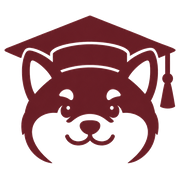
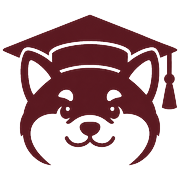
Add files via upload

diff --git a/index.html b/index.html
@@ -12,10 +12,10 @@
 <meta property="og:url" content="https://masahirosuzuki.com/">
 <meta property="og:image" content="https://masahirosuzuki.com/media/images/masahiro-suzuki.jpg">
 <meta name="twitter:card" content="summary">
-<link rel="icon" type="image/png" sizes="32x32" href="/media/images/favicon-32.png">
-<link rel="icon" type="image/png" sizes="16x16" href="/media/images/favicon-16.png">
-<link rel="shortcut icon" href="/favicon.ico">
-<link rel="apple-touch-icon" sizes="180x180" href="/apple-touch-icon.png">
+<link rel="icon" type="image/png" sizes="32x32" href="/media/images/favicon-dark-32.png?v=6">
+<link rel="icon" type="image/png" sizes="16x16" href="/media/images/favicon-dark-16.png?v=6">
+<link rel="shortcut icon" href="/favicon.ico?v=6">
+<link rel="apple-touch-icon" sizes="180x180" href="/apple-touch-icon.png?v=6">
 <style>
 :root{--text:#20262d;--muted:#68737d;--line:#e5e8eb;--link:#225f7c;--max:980px}
 *{box-sizing:border-box}html{scroll-behavior:smooth}
@@ -31,8 +31,8 @@ nav{display:flex;align-items:center;justify-content:space-between;gap:24px;flex-
 .figure-link{display:inline-block;cursor:zoom-in}.figure-link:focus-visible{outline:2px solid var(--text);outline-offset:4px;border-radius:4px}.figure-dialog{width:min(94vw,1400px);max-width:none;max-height:94vh;padding:0;border:0;border-radius:10px;background:#fff;box-shadow:0 20px 70px rgba(0,0,0,.28);overflow:visible}.figure-dialog::backdrop{background:rgba(0,0,0,.72)}.figure-dialog img{display:block;max-width:94vw;max-height:90vh;width:auto;height:auto;margin:auto;border-radius:8px}.figure-dialog-close{position:absolute;right:-12px;top:-12px;width:36px;height:36px;border:0;border-radius:50%;background:var(--text);color:#fff;font:inherit;font-size:22px;line-height:1;cursor:pointer;box-shadow:0 2px 8px rgba(0,0,0,.2)}
 .timeline{display:grid;gap:25px}.record{display:grid;grid-template-columns:110px 1fr;gap:18px;align-items:flex-start}.record-main{display:flex;flex-direction:column;gap:4px}.period{color:var(--muted);font-variant-numeric:tabular-nums;font-size:1.05rem}.record-title{font-weight:650;font-size:1.06rem;letter-spacing:-.015em}.record-meta{color:var(--muted);font-size:1.02rem}.record-details{color:var(--muted);font-size:.94rem;margin-top:3px;max-width:720px}
 .award{display:grid;grid-template-columns:58px 1fr;gap:16px;margin:8px 0}.year{color:var(--muted)}.award a{color:var(--text);text-decoration:underline;text-decoration-thickness:1.5px;text-underline-offset:.12em}.contact{display:flex;gap:18px;flex-wrap:wrap}footer{border-top:1px solid var(--line);padding:28px 0 44px;color:var(--muted);font-size:.9rem}.load-error{padding:18px 0;color:var(--muted)}
-@media(max-width:760px){.hero{grid-template-columns:1fr;gap:32px;padding-top:46px}.photo{width:min(78%,360px);order:-1}.grid{grid-template-columns:1fr;gap:15px}.paper-with-figure{grid-template-columns:1fr;gap:14px}.paper-figure{max-width:min(100%,320px);max-height:260px}.record{grid-template-columns:1fr;gap:2px}nav{align-items:flex-start}.nav{gap:14px}.home-logo{width:46px;height:46px;margin-right:2px}.nav-controls{width:100%;justify-content:flex-end}.icon-btn{width:54px;min-width:54px;min-height:54px}.icon-btn.scholar svg{width:28px;height:28px}.icon-btn.linkedin img{width:26px;height:26px}.icon-btn.email svg{width:24px;height:24px}}
-@media(max-width:500px){header{padding:24px 0 14px}.nav{gap:10px 13px;font-size:.84rem;line-height:1.35}.home-logo{width:48px;height:48px;margin-right:0}.nav-controls{margin-top:2px}.lang-switch{gap:3px;padding:3px}.lang-btn{padding:5px 8px;font-size:.78rem}.role{line-height:1.55}.role #group-wrap:not([hidden]){display:block;margin-top:4px}.role-separator{display:none}}
+@media(max-width:760px){.hero{grid-template-columns:1fr;gap:32px;padding-top:26px}.photo{width:min(78%,360px);order:-1}.grid{grid-template-columns:1fr;gap:15px}.paper-with-figure{grid-template-columns:1fr;gap:14px}.paper-figure{max-width:min(100%,320px);max-height:260px}.record{grid-template-columns:1fr;gap:2px}.icon-btn{width:54px;min-width:54px;min-height:54px}.icon-btn.scholar svg{width:28px;height:28px}.icon-btn.linkedin img{width:26px;height:26px}.icon-btn.email svg{width:24px;height:24px}}
+@media(max-width:500px){.wrap{width:min(calc(100% - 24px),var(--max))}header{padding:12px 0 10px}nav{display:grid;grid-template-columns:repeat(5,minmax(0,1fr));gap:7px 3px;align-items:center}.nav{display:contents}.home-logo{grid-row:1;grid-column:1;width:54px;height:54px;margin:0;justify-self:start}#nav-publications{grid-row:2;grid-column:1}#nav-employment{grid-row:2;grid-column:2}#nav-education{grid-row:2;grid-column:3}#nav-awards{grid-row:2;grid-column:4}#nav-contact{grid-row:2;grid-column:5}.nav a:not(.home-logo){font-size:.68rem;line-height:1.2;text-align:center;white-space:nowrap}.nav-controls{grid-row:1;grid-column:4/6;width:auto;justify-self:end;margin:0}.lang-switch{gap:3px;padding:3px}.lang-btn{padding:5px 8px;font-size:.78rem}.hero{padding-top:18px}.role{line-height:1.55}.role #group-wrap:not([hidden]){display:block;margin-top:4px}.role-separator{display:none}}
 </style>
 <script type="application/ld+json">
 {"@context":"https://schema.org","@type":"Person","name":"Masahiro Suzuki","url":"https://masahirosuzuki.com/","jobTitle":"Postdoctoral Researcher","affiliation":[{"@type":"Organization","name":"Chalmers University of Technology"},{"@type":"Organization","name":"ENTAP – Energy Technology and Policy","url":"https://entap.net/"}],"sameAs":["https://www.linkedin.com/in/suzuki-masahiro/","https://scholar.google.com/citations?user=iCK54XQAAAAJ&hl=en","https://github.com/suzuki-masahiro-phd"]}
